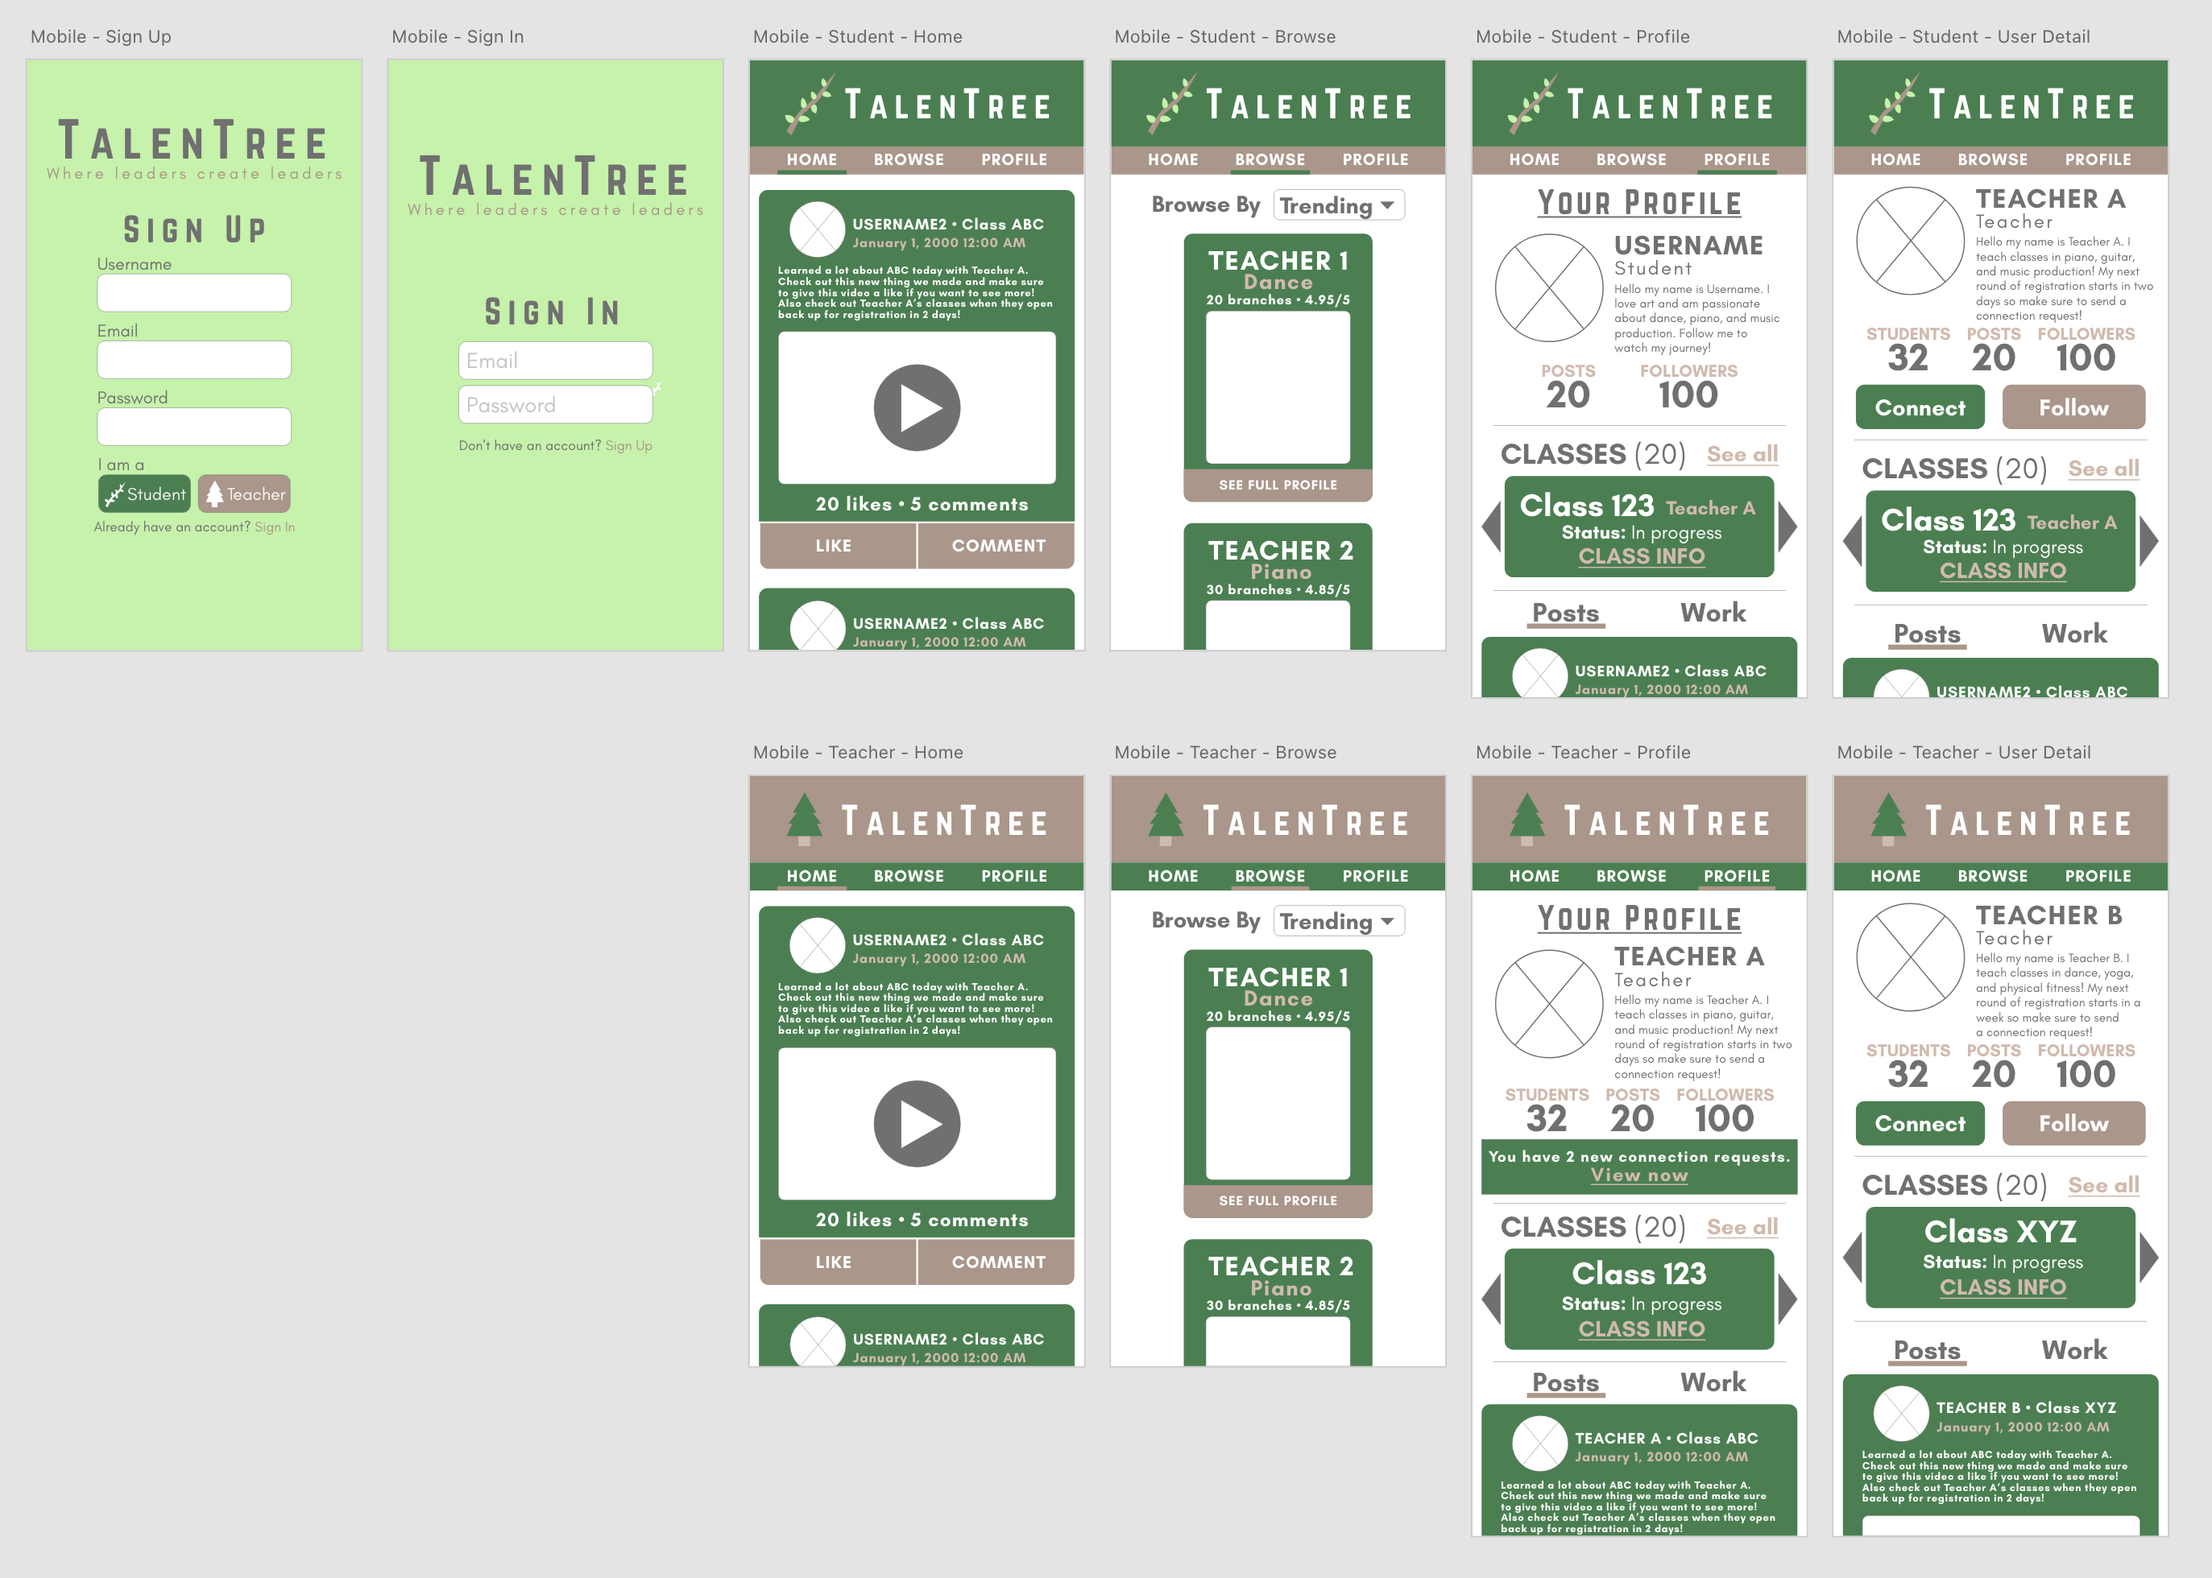
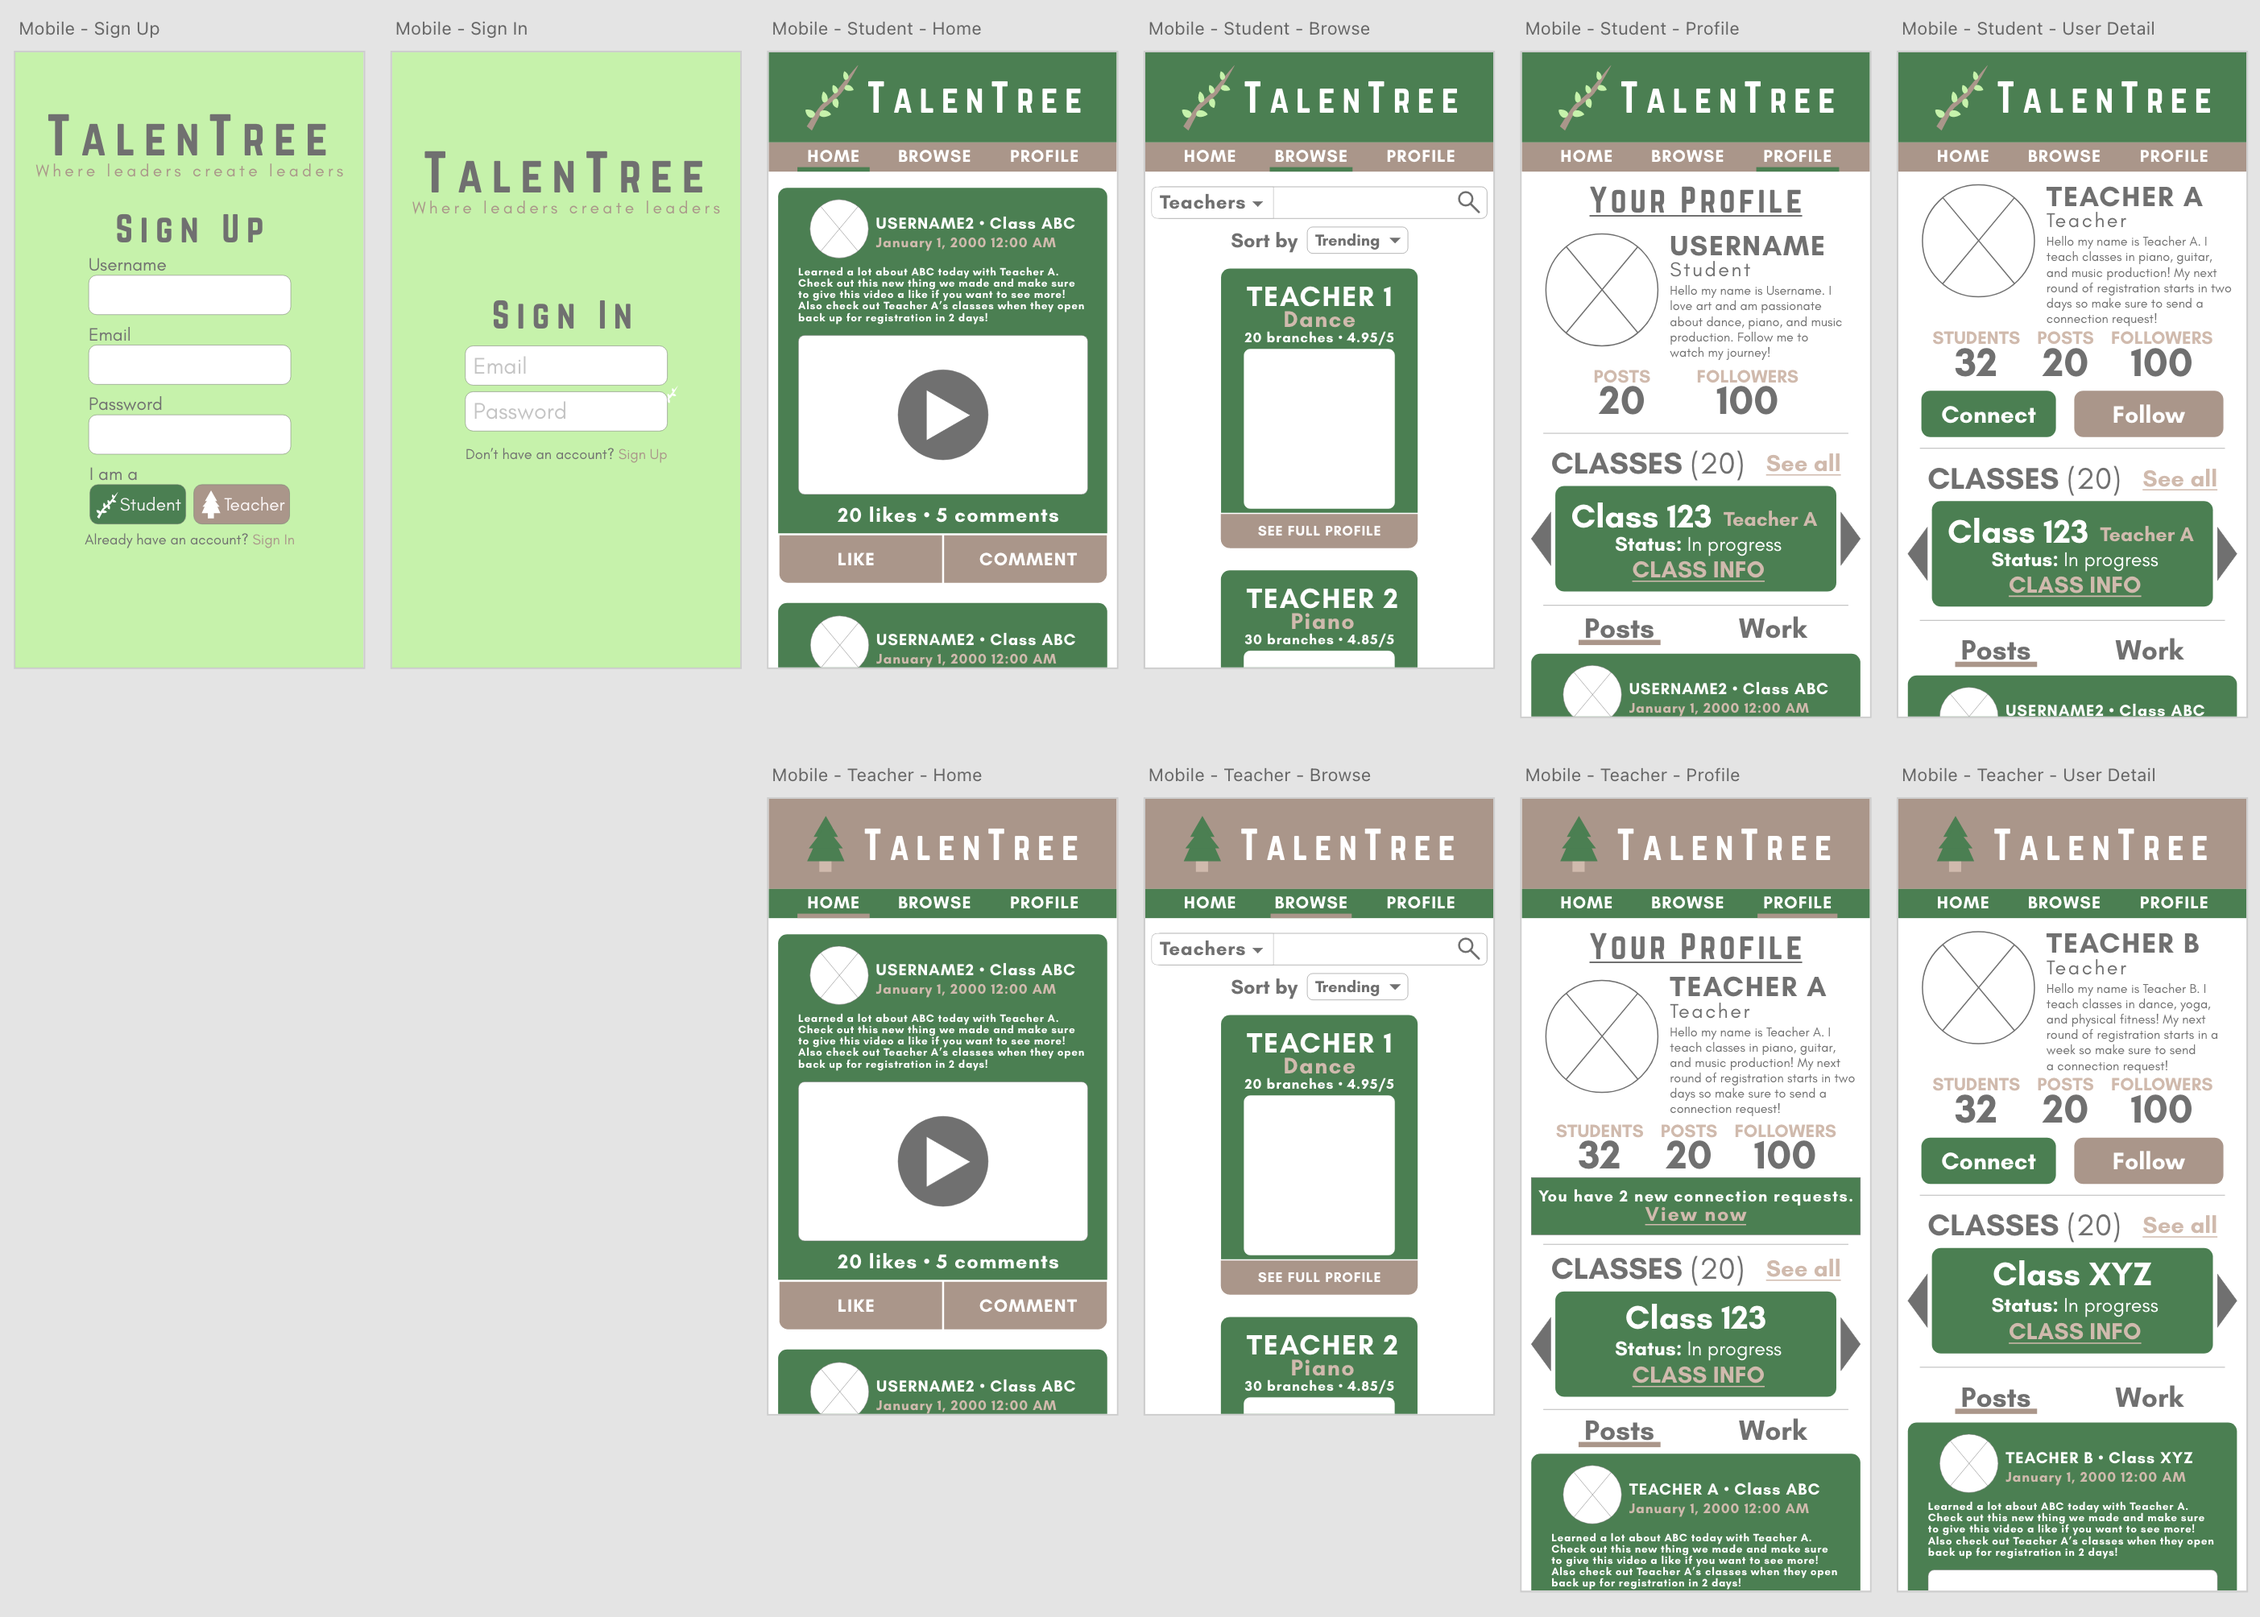
Update wireframe with search

Changed region(s): [[0.0, 0.0, 1.0, 0.9959]]

diff --git a/README.md b/README.md
@@ -48,11 +48,11 @@
 
 - Web View
 
-![Link to Web Wireframe](https://res.cloudinary.com/dszox5xnw/image/upload/v1628714481/TalenTree/talentree-web_zev0or.png)
+![Link to Web Wireframe](https://res.cloudinary.com/dszox5xnw/image/upload/v1628716060/TalenTree/talentree-web_tmirom.png)
 
 - Mobile View
 
-![Link to Mobile Wireframe](https://res.cloudinary.com/dszox5xnw/image/upload/v1628708607/TalenTree/talentree-mobile_cn4n55.png)
+![Link to Mobile Wireframe](https://res.cloudinary.com/dszox5xnw/image/upload/v1628716060/TalenTree/talentree-mobile_xuqnoi.png)
 
 #### Component Hierarchy
 
